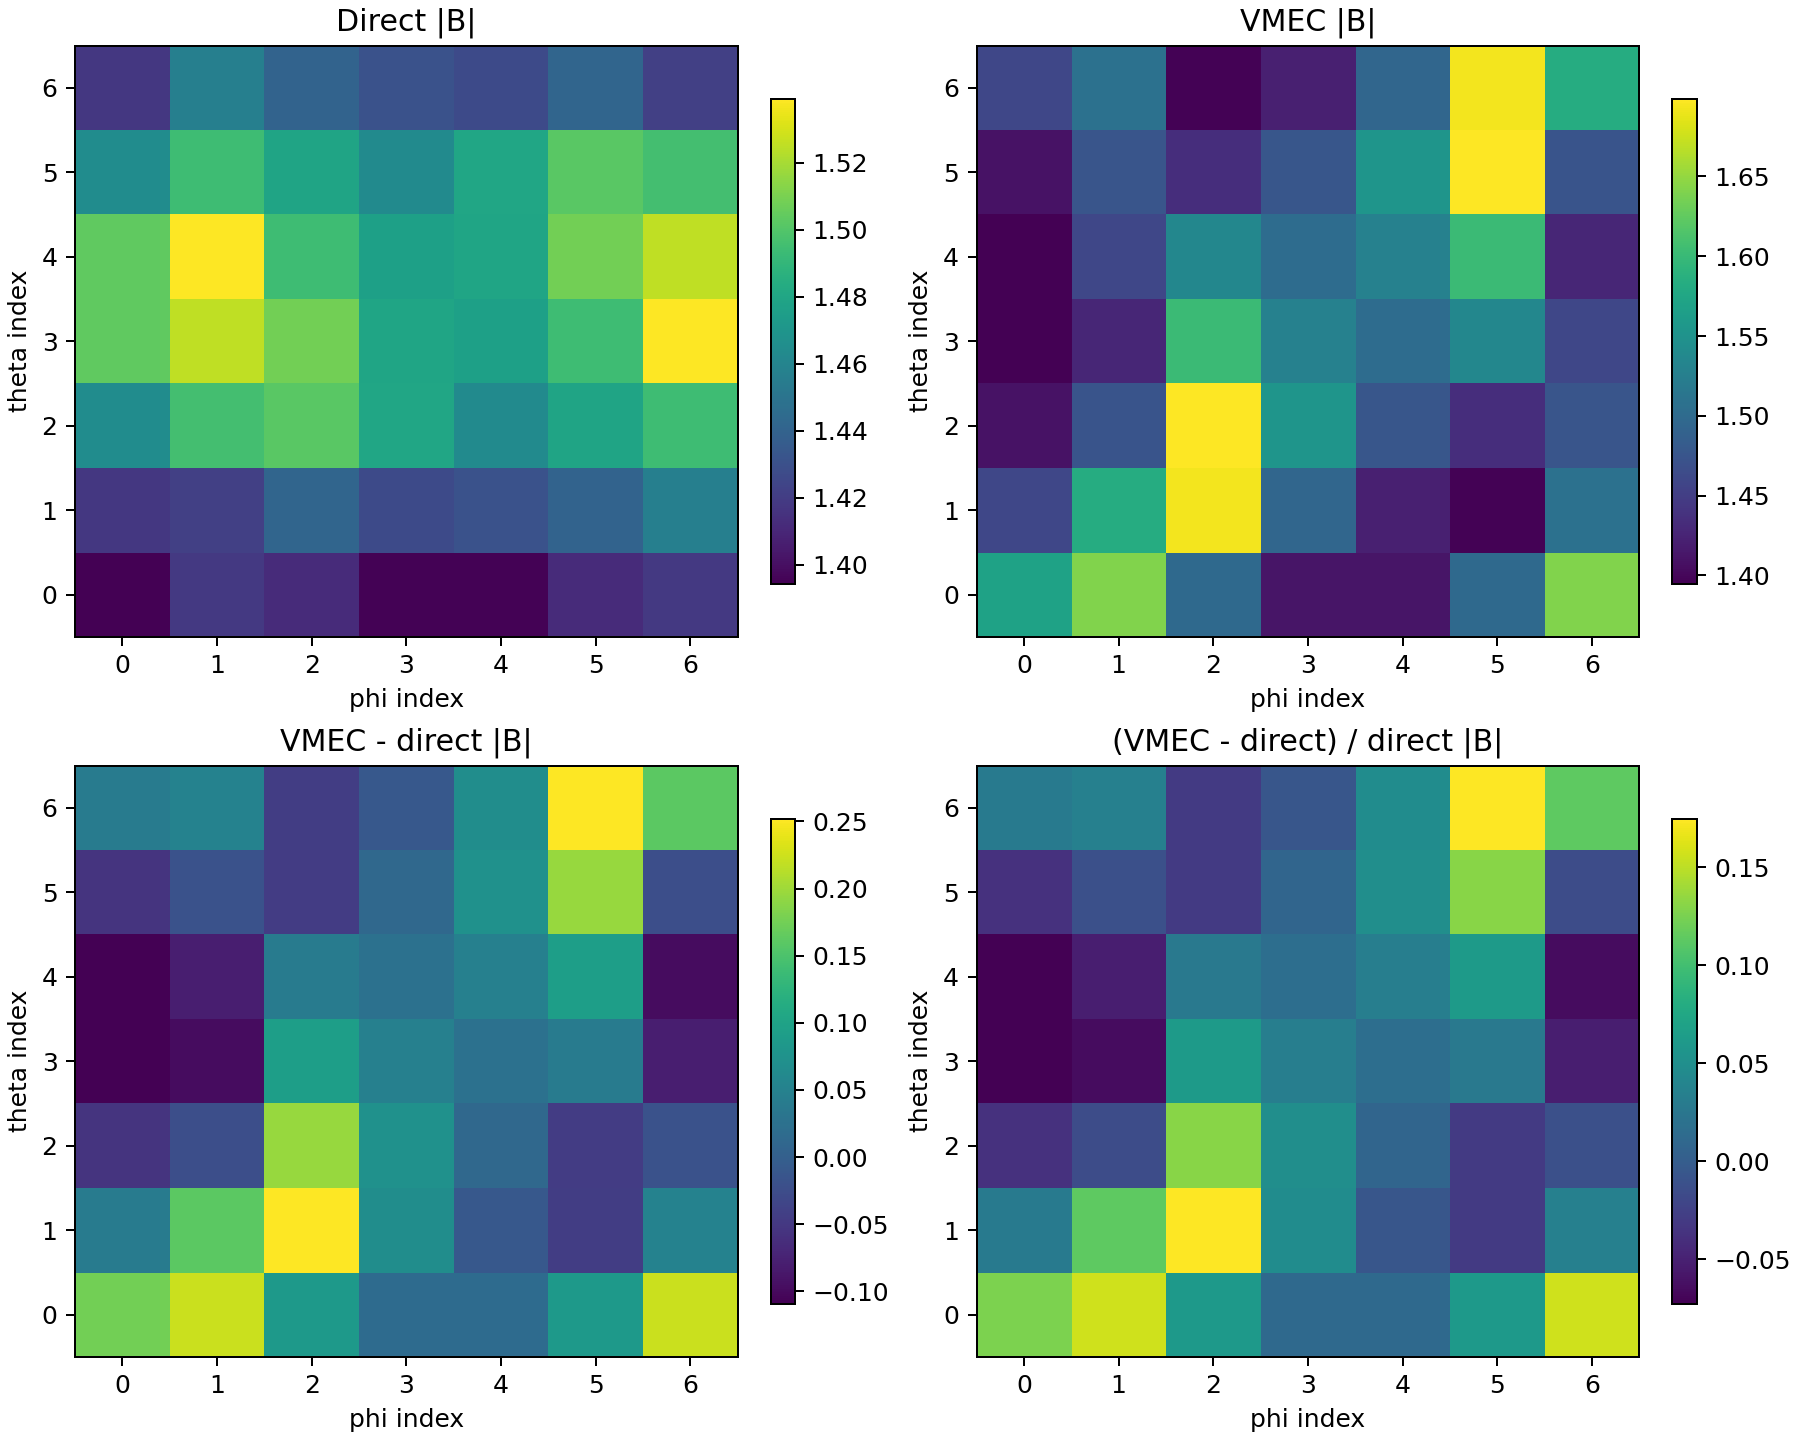
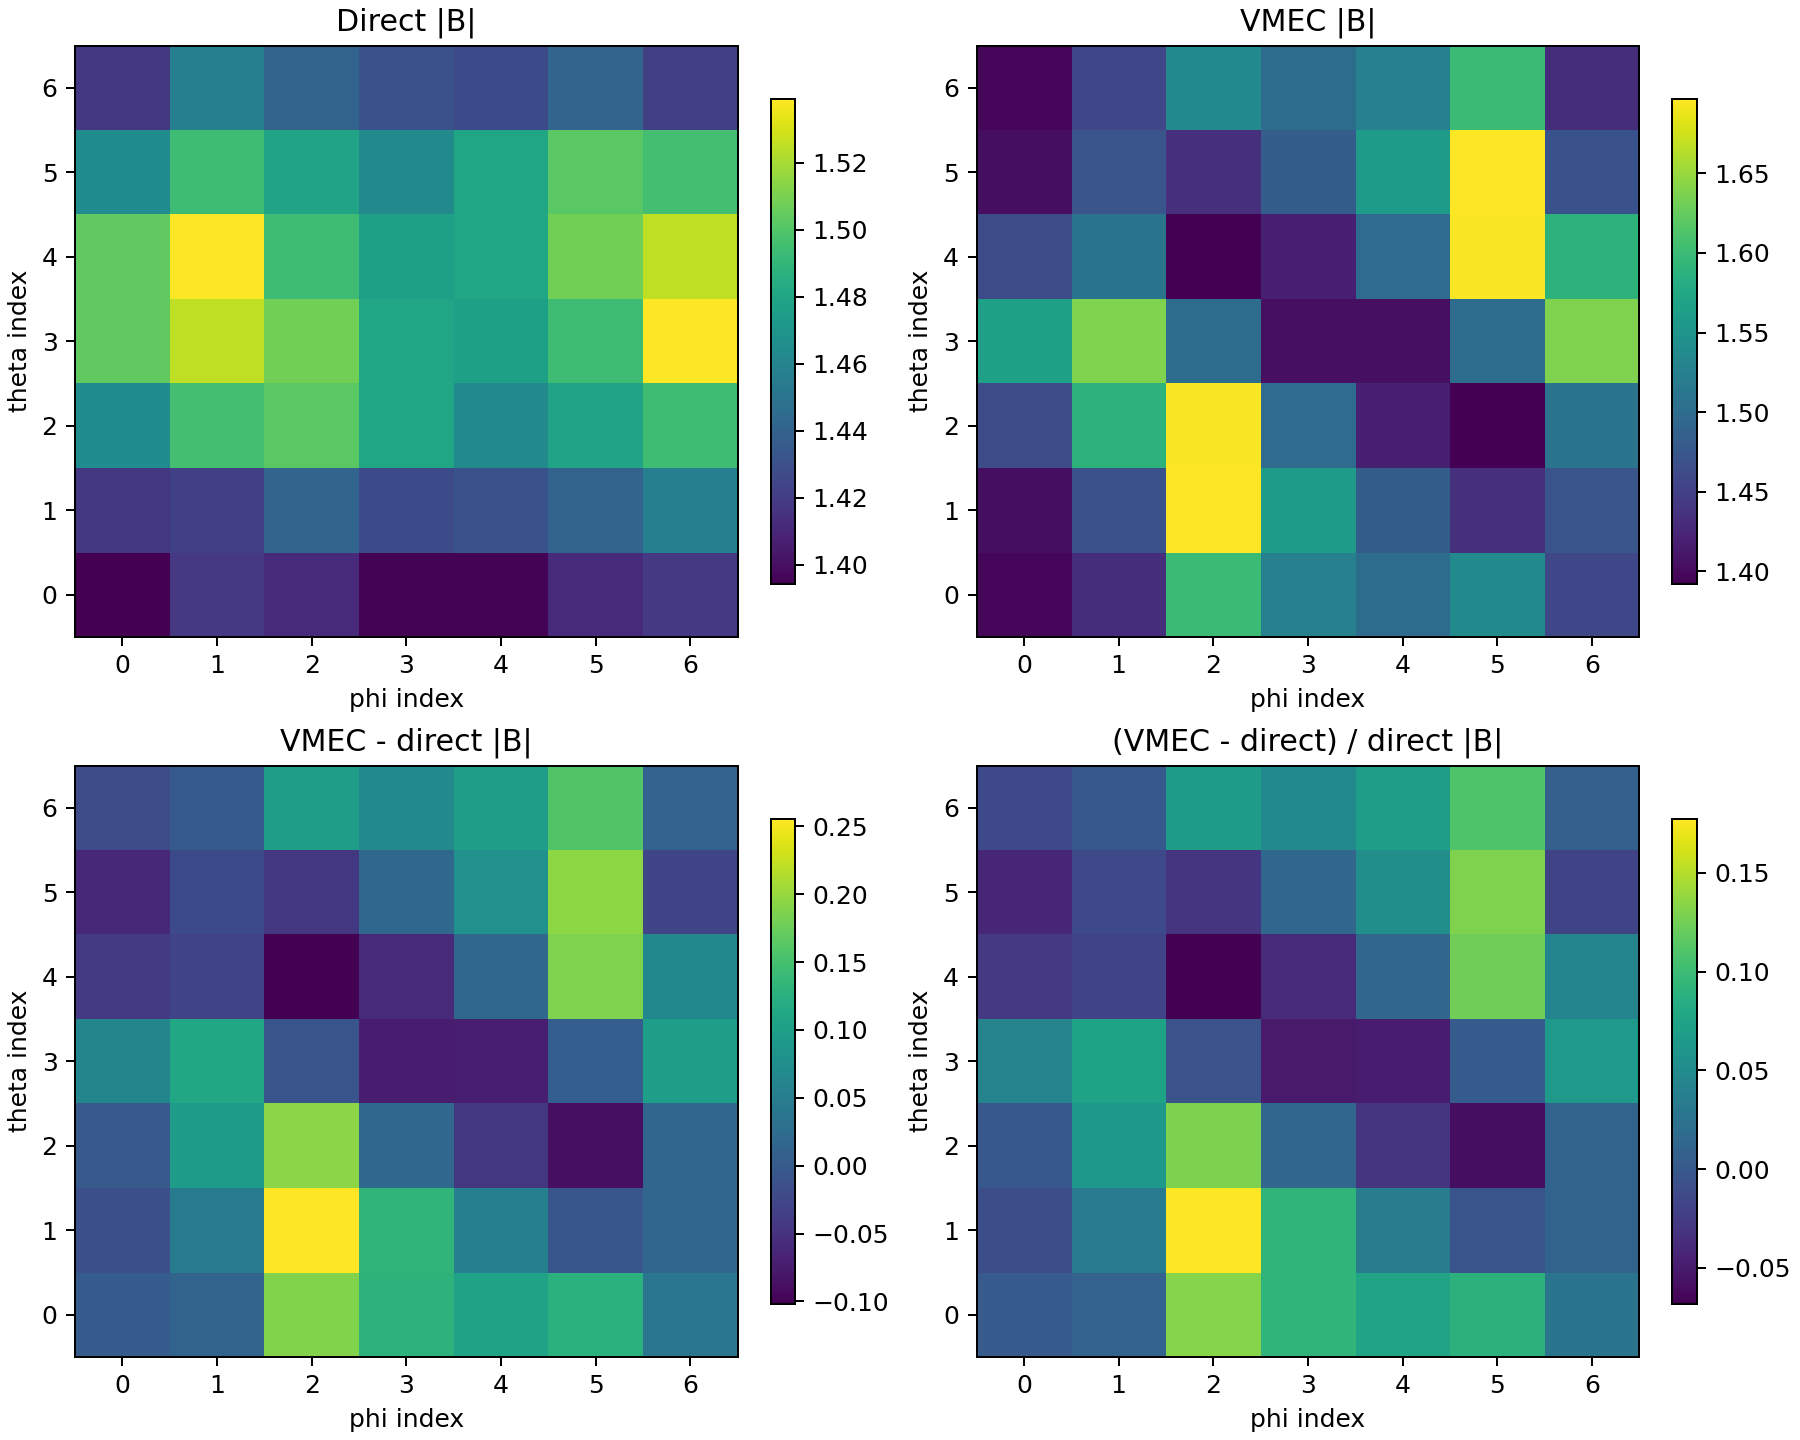
Clarify direct VMEC benchmark mismatch

diff --git a/examples/2_Intermediate/boozerQA_finitebeta.py b/examples/2_Intermediate/boozerQA_finitebeta.py
@@ -1001,9 +1001,46 @@ def write_vmec_benchmark_outputs(name, direct_field, vmec_field, summary):
     print(f"Saved VMEC benchmark plot to {png_path}")
 
 
+def apply_field_alignment(field, phi_shift=0, theta_shift=0, flip_phi=False, flip_theta=False):
+    aligned = np.asarray(field)
+    if flip_phi:
+        aligned = np.flip(aligned, axis=0)
+    if flip_theta:
+        aligned = np.flip(aligned, axis=1)
+    aligned = np.roll(aligned, int(phi_shift), axis=0)
+    aligned = np.roll(aligned, int(theta_shift), axis=1)
+    return aligned
+
+
+def find_best_field_alignment(reference_field, candidate_field):
+    reference = np.asarray(reference_field)
+    candidate = np.asarray(candidate_field)
+    best = None
+    for flip_phi in (False, True):
+        for flip_theta in (False, True):
+            transformed = apply_field_alignment(candidate, flip_phi=flip_phi, flip_theta=flip_theta)
+            for phi_shift in range(reference.shape[0]):
+                shifted_phi = np.roll(transformed, phi_shift, axis=0)
+                for theta_shift in range(reference.shape[1]):
+                    aligned = np.roll(shifted_phi, theta_shift, axis=1)
+                    rel_diff = float(np.linalg.norm(aligned - reference) / max(np.linalg.norm(reference), 1e-30))
+                    if best is None or rel_diff < best["rel_diff"]:
+                        best = {
+                            "aligned_field": aligned.copy(),
+                            "rel_diff": rel_diff,
+                            "phi_shift": int(phi_shift),
+                            "theta_shift": int(theta_shift),
+                            "flip_phi": bool(flip_phi),
+                            "flip_theta": bool(flip_theta),
+                        }
+    return best
+
+
 def export_and_benchmark_vmec_from_surface(
     surface,
     direct_field,
+    direct_iota,
+    direct_I,
     target_plasma_beta,
     reference_magnetic_pressure,
     pressure_jump,
@@ -1021,7 +1058,15 @@ def export_and_benchmark_vmec_from_surface(
     )
     vmec_input_path = Path(OUT_DIR) / vmec_input_name
 
-    def configure_vmec_equilibrium(vmec_obj, axis_pressure_value, phiedge_value):
+    constraint_mode = os.environ.get(
+        "SIMSOPT_FINITE_BETA_VMEC_CONSTRAINT_MODE",
+        "iota",
+    ).strip().lower()
+    if constraint_mode not in ("current", "iota", "none"):
+        raise ValueError("SIMSOPT_FINITE_BETA_VMEC_CONSTRAINT_MODE must be one of: current, iota, none")
+    direct_toroidal_current = float((2.0 * np.pi / MU0) * float(direct_I))
+
+    def configure_vmec_equilibrium(vmec_obj, axis_pressure_value, phiedge_value, direct_iota_value):
         vmec_obj.boundary = boundary_rz
         vmec_obj.indata.lfreeb = False
         vmec_obj.indata.mpol = int(boundary_rz.mpol)
@@ -1042,6 +1087,16 @@ def export_and_benchmark_vmec_from_surface(
             vmec_obj.indata.niter_array[idx] = niter_schedule[idx]
             vmec_obj.indata.ftol_array[idx] = ftol_schedule[idx]
         vmec_obj.pressure_profile = ProfilePolynomial([float(axis_pressure_value), -float(axis_pressure_value)])
+        vmec_obj.current_profile = None
+        vmec_obj.iota_profile = None
+        if constraint_mode == "iota":
+            vmec_obj.indata.ncurr = 0
+            vmec_obj.indata.piota_type = "power_series"
+            vmec_obj.iota_profile = ProfilePolynomial([float(direct_iota_value)])
+        elif constraint_mode == "current":
+            vmec_obj.indata.ncurr = 1
+            vmec_obj.indata.pcurr_type = "power_series"
+            vmec_obj.current_profile = ProfilePolynomial([float(direct_toroidal_current)])
 
     def build_boundary_surface(vmec_obj):
         boundary = SurfaceRZFourier.from_nphi_ntheta(
@@ -1057,7 +1112,7 @@ def export_and_benchmark_vmec_from_surface(
         return boundary
 
     calibration_vmec = Vmec(None, verbose=False, nphi=max(nphi_benchmark, 32), ntheta=max(ntheta_benchmark, 32), range_surface="field period")
-    configure_vmec_equilibrium(calibration_vmec, axis_pressure_value=0.0, phiedge_value=1.0)
+    configure_vmec_equilibrium(calibration_vmec, axis_pressure_value=0.0, phiedge_value=1.0, direct_iota_value=direct_iota)
     calibration_vmec.run()
     Bx_cal, By_cal, Bz_cal = B_cartesian(calibration_vmec, nphi=nphi_benchmark, ntheta=ntheta_benchmark, range="field period")
     calibration_field = np.stack((Bx_cal, By_cal, Bz_cal), axis=2)
@@ -1067,7 +1122,7 @@ def export_and_benchmark_vmec_from_surface(
 
     axis_pressure = float(max(2.0 * target_plasma_beta * reference_magnetic_pressure, 0.0))
     vmec = Vmec(None, verbose=False, nphi=max(nphi_benchmark, 32), ntheta=max(ntheta_benchmark, 32), range_surface="field period")
-    configure_vmec_equilibrium(vmec, axis_pressure_value=axis_pressure, phiedge_value=phiedge_scale)
+    configure_vmec_equilibrium(vmec, axis_pressure_value=axis_pressure, phiedge_value=phiedge_scale, direct_iota_value=direct_iota)
     vmec.write_input(str(vmec_input_path))
     print(f"Wrote VMEC input to {vmec_input_path}")
 
@@ -1075,22 +1130,37 @@ def export_and_benchmark_vmec_from_surface(
     vmec_run.run()
     Bx, By, Bz = B_cartesian(vmec_run, nphi=nphi_benchmark, ntheta=ntheta_benchmark, range="field period")
     vmec_field = np.stack((Bx, By, Bz), axis=2)
+    best_alignment = find_best_field_alignment(direct_field, vmec_field)
+    aligned_vmec_field = best_alignment["aligned_field"]
     boundary_vmec = build_boundary_surface(vmec_run)
     beta_summary = collect_vmec_beta_summary(vmec_run)
     benchmark_summary = {
         'target_plasma_beta': float(target_plasma_beta),
         'direct_pressure_jump': float(pressure_jump),
+        'direct_iota': float(direct_iota),
+        'direct_I': float(direct_I),
+        'direct_toroidal_current': float(direct_toroidal_current),
+        'vmec_constraint_mode': constraint_mode,
         'vmec_axis_pressure': float(axis_pressure),
         'vmec_phiedge': float(phiedge_scale),
         'vmec_reference_magnetic_pressure': float(mean_surface_magnetic_pressure(boundary_vmec, vmec_field)),
         'direct_nonqs': float(surface_field_nonquasisymmetric_ratio(surface, direct_field)),
         'vmec_nonqs': float(surface_field_nonquasisymmetric_ratio(boundary_vmec, vmec_field)),
         'direct_vs_vmec_rel_field_diff': float(np.linalg.norm(vmec_field - direct_field) / max(np.linalg.norm(direct_field), 1e-30)),
+        'direct_vs_vmec_rel_field_diff_aligned': float(best_alignment['rel_diff']),
+        'vmec_alignment_phi_shift': int(best_alignment['phi_shift']),
+        'vmec_alignment_theta_shift': int(best_alignment['theta_shift']),
+        'vmec_alignment_flip_phi': int(best_alignment['flip_phi']),
+        'vmec_alignment_flip_theta': int(best_alignment['flip_theta']),
+        'vmec_iota_axis': float(vmec_run.iota_axis()),
         'vmec_iota_edge': float(vmec_run.iota_edge()),
+        'vmec_mean_iota': float(vmec_run.mean_iota()),
+        'vmec_toroidal_current': float(vmec_run.wout.ctor),
+        'vmec_toroidal_current_rel_error': float((float(vmec_run.wout.ctor) - direct_toroidal_current) / max(abs(direct_toroidal_current), 1e-30)),
         'vmec_volume': float(vmec_run.volume()),
     }
     benchmark_summary.update(beta_summary)
-    write_vmec_benchmark_outputs("boozerQA_finitebeta_direct_vmec_benchmark", direct_field, vmec_field, benchmark_summary)
+    write_vmec_benchmark_outputs("boozerQA_finitebeta_direct_vmec_benchmark", direct_field, aligned_vmec_field, benchmark_summary)
     return benchmark_summary, vmec_input_path
 
 
@@ -1393,6 +1463,8 @@ if mode == "self-consistent":
         benchmark_summary, vmec_input_path = export_and_benchmark_vmec_from_surface(
             surface,
             B_in,
+            direct_iota=result['iota'],
+            direct_I=result['I'],
             target_plasma_beta=plasma_beta,
             reference_magnetic_pressure=reference_magnetic_pressure,
             pressure_jump=finite_beta.pressure_jump,
@@ -1400,8 +1472,10 @@ if mode == "self-consistent":
             ntheta_benchmark=surface.quadpoints_theta.size,
         )
         print(
-            f"VMEC benchmark: input={vmec_input_path.name}, rel field diff={benchmark_summary['direct_vs_vmec_rel_field_diff']:.6e}, "
-            f"VMEC nonQS={benchmark_summary['vmec_nonqs']:.6e}, iota_edge={benchmark_summary['vmec_iota_edge']:.6e}"
+            f"VMEC benchmark: input={vmec_input_path.name}, raw rel field diff={benchmark_summary['direct_vs_vmec_rel_field_diff']:.6e}, "
+            f"aligned rel field diff={benchmark_summary['direct_vs_vmec_rel_field_diff_aligned']:.6e}, "
+            f"VMEC nonQS={benchmark_summary['vmec_nonqs']:.6e}, iota_edge={benchmark_summary['vmec_iota_edge']:.6e}, "
+            f"toroidal current={benchmark_summary['vmec_toroidal_current']:.6e} A"
         )
         beta_keys = [key for key in benchmark_summary if 'beta' in key.lower() and key not in ('target_plasma_beta',)]
         if len(beta_keys) > 0:
